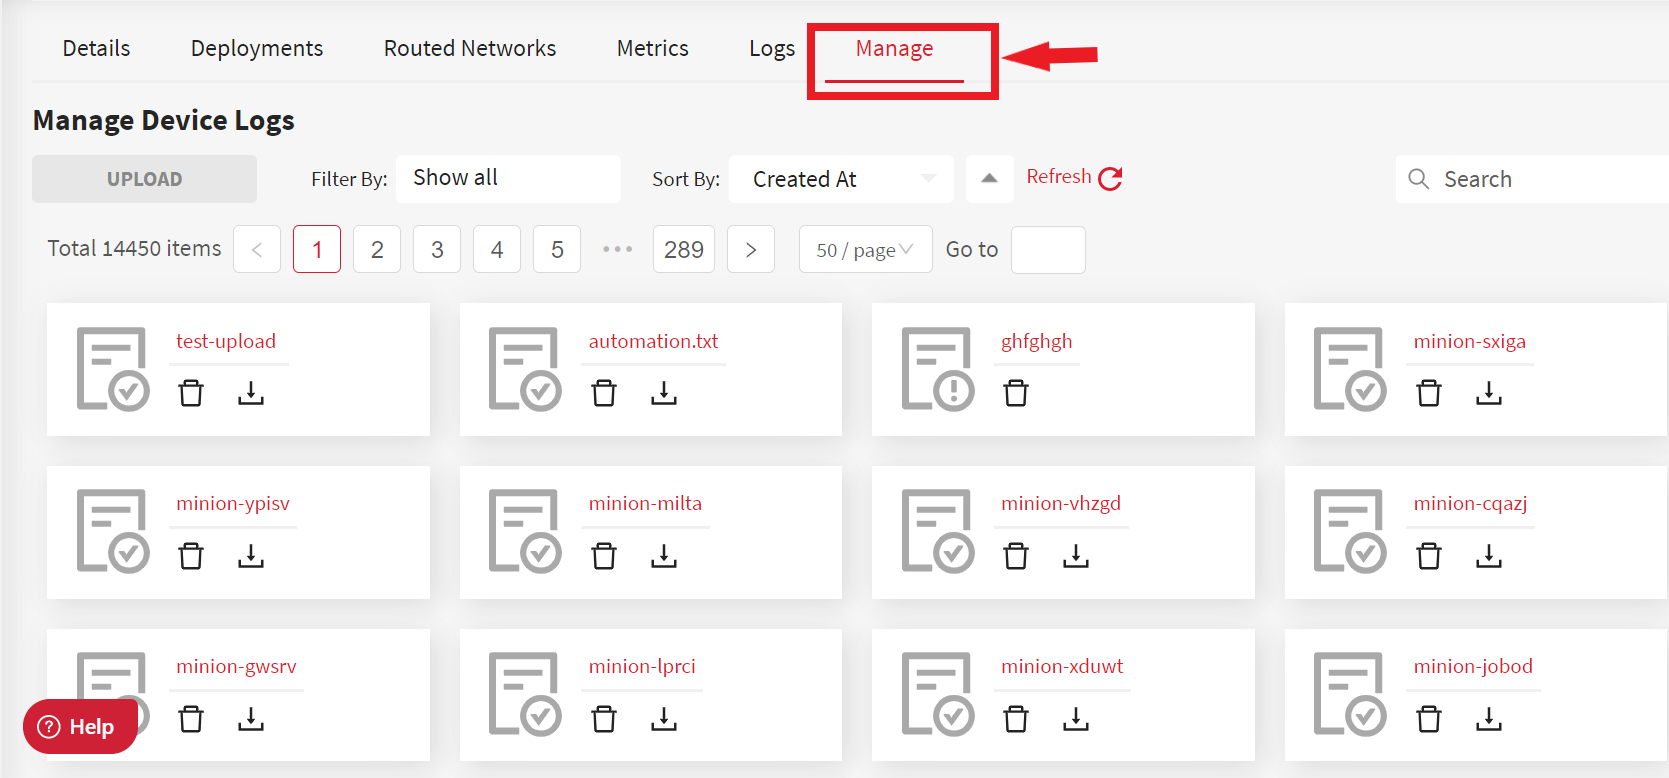
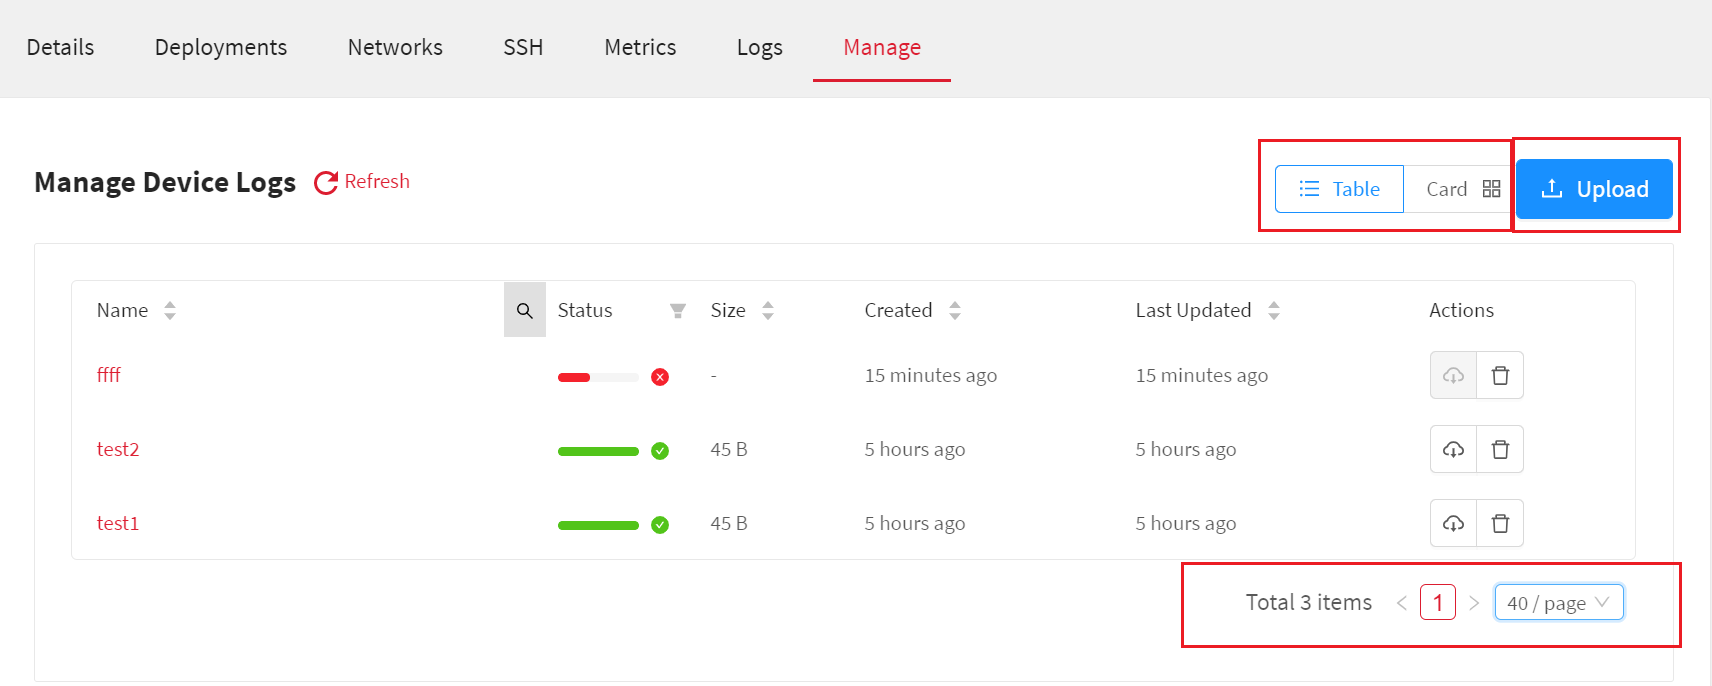
Updated Device log page

diff --git a/hugo/content/3_how-tos/35_tooling_and_debugging/352_upload-files-from-device.md b/hugo/content/3_how-tos/35_tooling_and_debugging/352_upload-files-from-device.md
@@ -24,16 +24,17 @@ tags:
 
 ### Batch Upload
 You can upload logs collected from a device (like dmesg,
-journalctl, rosbags etc.) to rapyuta.io. It lets you:
+journalctl, rosbags etc.) to rapyuta.io. It allows you to do the following:
 
 * *Save* logs for future reference. The logs are saved to the
   cloud storage.
 * *Process* and *analyze* logs for insights as per your requirements.
 
+
 The log data can be text, images, or videos. You can upload
-log files by clicking on the **Upload** button, which
-is found on the device's **Manage** tab.
+log files by clicking on the **Upload** button under the **Manage** tab. You can select either **Table** or **Card** options to view the log files. The rapyuta.io platform also allows you to download the log lines per page. You can select either 10, 20, 30, or 40 lines of logs to be downloaded per page.
 ![Manage Tab](/images/core-concepts/logging/device-logs/upload-logs/manage-tab.png?classes=border,shadow&width=40pc)
+
 
 A list of statuses indicates the progress of an ongoing upload.
 They are:
